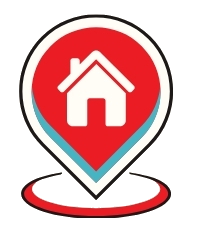
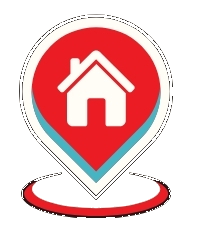
Corrige previews de galería en Docker e iconos WA/pin con transparencia.

diff --git a/frontend/src/app/promo-generador.util.ts b/frontend/src/app/promo-generador.util.ts
@@ -783,7 +783,8 @@ export async function generarLotePublicidad(
   inventario: ProductoPromo[] = []
 ): Promise<PromoGenerada[]> {
   const media = (name: string) =>
-    loadImage(`/api/publicidad/media/${name}?v=20`).then((i) => i || loadImage(`/publicidad/${name}?v=20`));
+    // Preferir estáticos del front (siempre en el JAR); API como respaldo
+    loadImage(`/publicidad/${name}?v=21`).then((i) => i || loadImage(`/api/publicidad/media/${name}?v=21`));
 
   const [logo, detergente, trastes, jarceria, burbujas, iconWa, iconPin] = await Promise.all([
     media('amorcas-chingon.png').then(

diff --git a/backend/src/main/java/com/productoslimpieza/service/PublicidadMediaService.java b/backend/src/main/java/com/productoslimpieza/service/PublicidadMediaService.java
@@ -6,6 +6,7 @@ import java.nio.file.Path;
 import java.util.Locale;
 import java.util.Set;
 import org.springframework.beans.factory.annotation.Value;
+import org.springframework.core.io.ClassPathResource;
 import org.springframework.core.io.Resource;
 import org.springframework.core.io.UrlResource;
 import org.springframework.http.HttpStatus;
@@ -14,7 +15,9 @@ import org.springframework.web.server.ResponseStatusException;
 
 /**
  * Sirve archivos de {@code frontend/public/publicidad} (promos) con MIME correcto.
- * Así Chrome no depende solo del static de Angular / JAR.
+ *
+ * <p>En local lee del disco; en Docker/JAR cae al classpath {@code static/publicidad/} embebido
+ * en el fat-jar (copia del build Angular).
  */
 @Service
 public class PublicidadMediaService {
@@ -31,14 +34,18 @@ public class PublicidadMediaService {
   public Resource archivo(String nombre) throws IOException {
     String safe = sanitizar(nombre);
     Path f = dir.resolve(safe).normalize();
-    if (!f.startsWith(dir) || !Files.isRegularFile(f)) {
-      throw new ResponseStatusException(HttpStatus.NOT_FOUND, "Imagen no encontrada: " + safe);
+    if (f.startsWith(dir) && Files.isRegularFile(f)) {
+      Resource res = new UrlResource(f.toUri());
+      if (res.exists() && res.isReadable()) {
+        return res;
+      }
     }
-    Resource res = new UrlResource(f.toUri());
-    if (!res.exists() || !res.isReadable()) {
-      throw new ResponseStatusException(HttpStatus.NOT_FOUND, "Imagen no legible");
+    // Docker: solo app.jar → estáticos Angular en classpath
+    ClassPathResource cp = new ClassPathResource("static/publicidad/" + safe);
+    if (cp.exists() && cp.isReadable()) {
+      return cp;
     }
-    return res;
+    throw new ResponseStatusException(HttpStatus.NOT_FOUND, "Imagen no encontrada: " + safe);
   }
 
   public String contentType(String nombre) throws IOException {
@@ -46,31 +53,44 @@ public class PublicidadMediaService {
     Path f = dir.resolve(safe).normalize();
     if (Files.isRegularFile(f)) {
       try (var in = Files.newInputStream(f)) {
-        byte[] head = in.readNBytes(4);
-        if (head.length >= 3 && (head[0] & 0xff) == 0xff && (head[1] & 0xff) == 0xd8) {
-          return "image/jpeg";
-        }
-        if (head.length >= 4
-            && (head[0] & 0xff) == 0x89
-            && head[1] == 0x50
-            && head[2] == 0x4e
-            && head[3] == 0x47) {
-          return "image/png";
-        }
-        if (head.length >= 4
-            && head[0] == 'R'
-            && head[1] == 'I'
-            && head[2] == 'F'
-            && head[3] == 'F') {
-          return "image/webp";
-        }
-        if (head.length >= 3 && head[0] == 'G' && head[1] == 'I' && head[2] == 'F') {
-          return "image/gif";
-        }
+        return sniff(in.readNBytes(4), safe);
       }
     }
-    String ext = extension(safe);
-    return switch (ext) {
+    ClassPathResource cp = new ClassPathResource("static/publicidad/" + safe);
+    if (cp.exists()) {
+      try (var in = cp.getInputStream()) {
+        return sniff(in.readNBytes(4), safe);
+      }
+    }
+    return byExt(safe);
+  }
+
+  private static String sniff(byte[] head, String safe) {
+    if (head.length >= 3 && (head[0] & 0xff) == 0xff && (head[1] & 0xff) == 0xd8) {
+      return "image/jpeg";
+    }
+    if (head.length >= 4
+        && (head[0] & 0xff) == 0x89
+        && head[1] == 0x50
+        && head[2] == 0x4e
+        && head[3] == 0x47) {
+      return "image/png";
+    }
+    if (head.length >= 4
+        && head[0] == 'R'
+        && head[1] == 'I'
+        && head[2] == 'F'
+        && head[3] == 'F') {
+      return "image/webp";
+    }
+    if (head.length >= 3 && head[0] == 'G' && head[1] == 'I' && head[2] == 'F') {
+      return "image/gif";
+    }
+    return byExt(safe);
+  }
+
+  private static String byExt(String safe) {
+    return switch (extension(safe)) {
       case "png" -> "image/png";
       case "webp" -> "image/webp";
       case "gif" -> "image/gif";
@@ -106,15 +126,12 @@ public class PublicidadMediaService {
       return Path.of(configured).toAbsolutePath().normalize();
     }
     Path userDir = Path.of(System.getProperty("user.dir", ".")).toAbsolutePath().normalize();
-    // mvn desde /backend → ../frontend/public/publicidad
     if (userDir.getFileName() != null && "backend".equalsIgnoreCase(userDir.getFileName().toString())) {
       Path p = userDir.getParent().resolve("frontend/public/publicidad");
       if (Files.isDirectory(p)) return p.normalize();
     }
-    // raíz del repo
     Path fromRoot = userDir.resolve("frontend/public/publicidad");
     if (Files.isDirectory(fromRoot)) return fromRoot.normalize();
-    // Docker / JAR: estáticos embebidos se sirven aparte; fallback a uploads
     Path uploads = userDir.resolve("uploads/publicidad-media");
     try {
       Files.createDirectories(uploads);

diff --git a/backend/src/main/java/com/productoslimpieza/service/PublicidadGaleriaService.java b/backend/src/main/java/com/productoslimpieza/service/PublicidadGaleriaService.java
@@ -75,6 +75,45 @@ public class PublicidadGaleriaService {
     if (!Files.exists(manifestPath)) {
       escribirManifest(semillaInicial());
       log.info("Galería Amorcas: manifiesto inicial en {}", manifestPath);
+    } else {
+      migrarUrlsMediaEstaticas();
+    }
+  }
+
+  /**
+   * Manifiestos viejos apuntaban a {@code /api/publicidad/media/...} (404 en Docker).
+   * Las piezas base viven en el front: {@code /publicidad/...}.
+   */
+  private void migrarUrlsMediaEstaticas() throws IOException {
+    lock.lock();
+    try {
+      List<ManifestItem> items = leerManifest();
+      boolean changed = false;
+      List<ManifestItem> out = new ArrayList<>(items.size());
+      for (ManifestItem m : items) {
+        String src = m.staticSrc();
+        if (src != null && src.startsWith("/api/publicidad/media/")) {
+          String nombre = src.substring("/api/publicidad/media/".length());
+          out.add(
+              new ManifestItem(
+                  m.id(),
+                  m.titulo(),
+                  m.descripcion(),
+                  m.file(),
+                  "/publicidad/" + nombre,
+                  m.textoShare(),
+                  m.eliminable()));
+          changed = true;
+        } else {
+          out.add(m);
+        }
+      }
+      if (changed) {
+        escribirManifest(out);
+        log.info("Galería Amorcas: URLs /api/publicidad/media → /publicidad migradas");
+      }
+    } finally {
+      lock.unlock();
     }
   }
 
@@ -239,27 +278,27 @@ public class PublicidadGaleriaService {
   private static List<ManifestItem> semillaInicial() {
     String contacto = "WhatsApp 247-120-6128 · Fracc. Los Álamos #121-C";
     return List.of(
-        itemBase("chingon", "Amorcas chingón", "Logo / marca", "/api/publicidad/media/amorcas-chingon.png",
+        itemBase("chingon", "Amorcas chingón", "Logo / marca", "/publicidad/amorcas-chingon.png",
             "Amorcas — la química perfecta para tu hogar"),
-        itemBase("granel", "Beneficios a granel", "Promo a granel", "/api/publicidad/media/beneficios-granel.jpg",
+        itemBase("granel", "Beneficios a granel", "Promo a granel", "/publicidad/beneficios-granel.jpg",
             "¿Ya conoces nuestros productos a granel? Ahorra con Amorcas"),
-        itemBase("ropa1", "Ropa 1", "Limpieza de ropa", "/api/publicidad/media/ropa-1.jpg",
+        itemBase("ropa1", "Ropa 1", "Limpieza de ropa", "/publicidad/ropa-1.jpg",
             "Tu ropa limpia y con aroma… Amorcas te ayuda"),
-        itemBase("ropa2", "Ropa 2", "Limpieza de ropa", "/api/publicidad/media/ropa-2.jpg",
+        itemBase("ropa2", "Ropa 2", "Limpieza de ropa", "/publicidad/ropa-2.jpg",
             "Limpieza que se nota. Amorcas"),
-        itemBase("trastes", "Trastes", "Cocina y trastes", "/api/publicidad/media/trastes-1.jpg",
+        itemBase("trastes", "Trastes", "Cocina y trastes", "/publicidad/trastes-1.jpg",
             "Trastes brillantes sin esfuerzo — Amorcas"),
-        itemBase("coches", "Lavado de coches", "Autos", "/api/publicidad/media/lavado-coches.jpg",
+        itemBase("coches", "Lavado de coches", "Autos", "/publicidad/lavado-coches.jpg",
             "También para tu coche — Amorcas"),
-        itemBase("servicios", "Servicios y recargas", "Recargas y pagos", "/api/publicidad/media/servicios-recargas.jpg",
+        itemBase("servicios", "Servicios y recargas", "Recargas y pagos", "/publicidad/servicios-recargas.jpg",
             "En Amorcas también hay servicios y recargas"),
-        itemBase("tarjeta-f", "Tarjeta frente", contacto, "/api/publicidad/media/tarjeta-frente.jpg",
+        itemBase("tarjeta-f", "Tarjeta frente", contacto, "/publicidad/tarjeta-frente.jpg",
             "Amorcas · " + contacto),
-        itemBase("tarjeta-a", "Tarjeta atrás", "Presentación / sello", "/api/publicidad/media/tarjeta-atras.jpg",
+        itemBase("tarjeta-a", "Tarjeta atrás", "Presentación / sello", "/publicidad/tarjeta-atras.jpg",
             "Amorcas · Soluciones de Limpieza"),
-        itemBase("letras", "Logo letras azul", "Marca", "/api/publicidad/media/letras-fondo-azul.jpg",
+        itemBase("letras", "Logo letras azul", "Marca", "/publicidad/letras-fondo-azul.jpg",
             "Amorcas — la química perfecta para tu hogar"),
-        itemBase("amorcas-c", "Amorcas C", "Arte promocional", "/api/publicidad/media/amorcas-c.jpg", "Amorcas"));
+        itemBase("amorcas-c", "Amorcas C", "Arte promocional", "/publicidad/amorcas-c.jpg", "Amorcas"));
   }
 
   private static ManifestItem itemBase(

diff --git a/backend/src/main/java/com/productoslimpieza/config/SecurityConfig.java b/backend/src/main/java/com/productoslimpieza/config/SecurityConfig.java
@@ -94,7 +94,9 @@ public class SecurityConfig {
             .requestMatchers(HttpMethod.GET, "/api/auth/me").permitAll()
             .requestMatchers(HttpMethod.POST, "/api/auth/logout").permitAll()
             .requestMatchers(HttpMethod.GET, "/api/publicidad/galeria/archivo/**").permitAll()
+            .requestMatchers(HttpMethod.HEAD, "/api/publicidad/galeria/archivo/**").permitAll()
             .requestMatchers(HttpMethod.GET, "/api/publicidad/media/**").permitAll()
+            .requestMatchers(HttpMethod.HEAD, "/api/publicidad/media/**").permitAll()
             .requestMatchers("/api/**").authenticated()
             .anyRequest().permitAll())
         .exceptionHandling(ex -> ex
